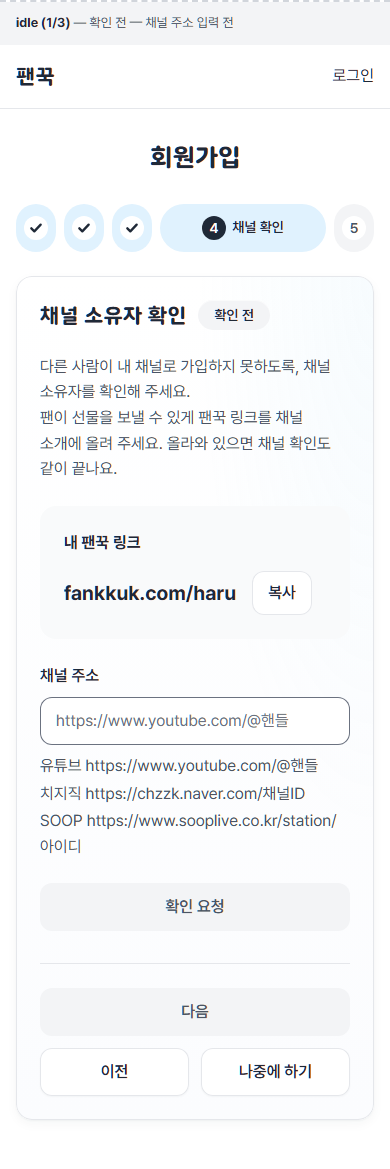
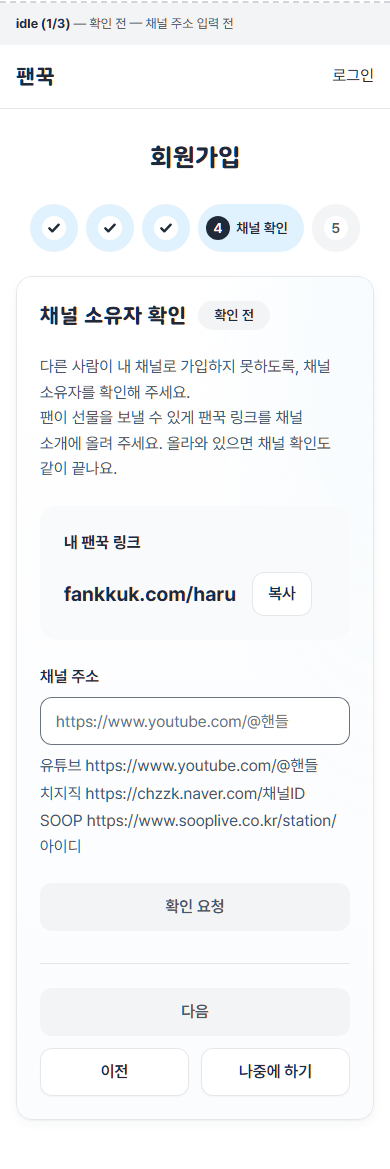
docs(fankkuk): 채널 확인 시안 37절 폭(480)으로 · 칸 설명은 소제목 아래 · 크리에이터 이름은 닉네임 하나로(결정)

diff --git a/projects/fankkuk/docs/design/mockups/channel-link-verify-20261102/index.html b/projects/fankkuk/docs/design/mockups/channel-link-verify-20261102/index.html
@@ -5,9 +5,15 @@
 <link rel="stylesheet" href="styles.css"></head><body>
 <!-- 근거: docs/ux/pages/signup.md · handle.md 「2026-11-02 채널 확인 개정안」. 쪽지 코드 칸 없음. 새 토큰·부품 없음(styles.css 는 v43 가입 시안 CSS 를 그대로 복사). 운영자 화면은 admin.html -->
 <header class="v-head"><h1 class="t-title">채널 확인 — 선물 링크 게시 확인</h1><ol><li><a href="#signup-2">가입 2단계</a></li><li><a href="#link-needed">link_needed</a></li><li><a href="#idle-empty">idle (1/3)</a></li><li><a href="#idle-youtube">idle (2/3)</a></li><li><a href="#idle-chzzk">idle (3/3)</a></li><li><a href="#waiting">waiting</a></li><li><a href="#rejected">rejected</a></li><li><a href="#verified">verified (가입 4단계)</a></li><li><a href="#locked">locked</a></li><li><a href="#acct-verified">verified (계정 설정)</a></li><li><a href="#acct-recheck">recheck_missing</a></li><li><a href="#profile-verifying">verifying (선물 링크 페이지 fankkuk.com/haru)</a></li><li><a href="admin.html">운영자 화면(admin.html)</a></li></ol></header>
-<section class="v-state" id="signup-2"><span class="v-label"><b>가입 2단계 (크리에이터)</b> — 바뀌는 칸만: 아이디 안내 한 줄 더, 채널 이름 안내 바꿈, 팬꾹 링크 칸 새로</span><div class="v-bar"><b>팬꾹</b><span>로그인</span></div><main><section class="su-page"><div class="container auth su-box"><div class="head"><h1 class="t-title">회원가입</h1></div><nav class="su-steps-wrap" aria-label="가입 단계"><ol class="su-steps su-four"><li><span class="su-st is-done"><span class="su-dot" aria-hidden="true"><svg width="16" height="16" viewBox="0 0 24 24" aria-hidden="true"><path d="m5 12.5 4.5 4.5L19 7" fill="none" stroke="currentColor" stroke-width="3.5" stroke-linecap="round" stroke-linejoin="round"/></svg></span><span class="su-lbl">유형 선택</span></span></li><li><span class="su-st" aria-current="step"><span class="su-dot" aria-hidden="true">2</span><span class="su-lbl">정보 입력</span></span></li><li><span class="su-st"><span class="su-dot" aria-hidden="true">3</span><span class="su-lbl">휴대폰 확인</span></span></li><li><span class="su-st"><span class="su-dot" aria-hidden="true">4</span><span class="su-lbl">채널 확인</span></span></li><li><span class="su-st"><span class="su-dot" aria-hidden="true">5</span><span class="su-lbl">승인 서명</span></span></li></ol></nav><form class="card" onsubmit="return false"><fieldset class="su-step"><legend class="sr-only">정보 입력</legend>
-<h3 class="t-card" style="margin-bottom:16px">계정</h3><div class="form"><div><label class="label" for="s2-id">아이디</label><input class="field" id="s2-id" value="haru_game"><p class="hint">영문 소문자·숫자·밑줄(_) 4~20자 · 가입 후 변경 불가<br>로그인할 때만 쓰고, 다른 사람에게는 보이지 않습니다.</p></div><p class="hint" style="margin:0">닉네임 · 이메일 · 비밀번호 칸은 지금 그대로</p></div>
-<h3 class="t-card" style="margin:32px 0 16px">채널 정보</h3><div class="form"><div><label class="label" for="s2-name">공개 이름</label><input class="field" id="s2-name" value="하루"><p class="hint">팬에게 표시되는 이름 · 최대 20자</p></div><div><label class="label" for="s2-ch">채널 이름</label><input class="field" id="s2-ch" placeholder="예: 꿀단지TV" value="하루의 놀이터"><p class="hint">방송 플랫폼에 보이는 채널 이름과 똑같이 적어 주세요. 채널 확인 때 같은지 봅니다.</p></div><div><label class="label" for="s2-link">팬꾹 링크</label><div class="vp-handle"><span class="pre">fankkuk.com/</span><input class="field" id="s2-link" placeholder="haru" value="haru"></div><p class="hint">채널 소개에 올릴 주소입니다 · 아이디와 다르게 정해 주세요<br>가입 후 30일 동안 바꿀 수 없습니다.</p></div><p class="hint" style="margin:0">팬덤 이름 · 태그 칸은 지금 그대로</p></div>
+<section class="v-state" id="signup-2"><span class="v-label"><b>가입 2단계 (크리에이터)</b> — 바뀌는 칸만: 칸 설명은 소제목 바로 아래(입력 칸 위), 꼴 규칙은 입력 칸 아래 · 공개 이름 칸 없음(닉네임으로 합침 — 다음 작업) · 팬꾹 링크 칸 새로</span><div class="v-bar"><b>팬꾹</b><span>로그인</span></div><main><section class="su-page"><div class="container auth su-box"><div class="head"><h1 class="t-title">회원가입</h1></div><nav class="su-steps-wrap" aria-label="가입 단계"><ol class="su-steps su-four"><li><span class="su-st is-done"><span class="su-dot" aria-hidden="true"><svg width="16" height="16" viewBox="0 0 24 24" aria-hidden="true"><path d="m5 12.5 4.5 4.5L19 7" fill="none" stroke="currentColor" stroke-width="3.5" stroke-linecap="round" stroke-linejoin="round"/></svg></span><span class="su-lbl">유형 선택</span></span></li><li><span class="su-st" aria-current="step"><span class="su-dot" aria-hidden="true">2</span><span class="su-lbl">정보 입력</span></span></li><li><span class="su-st"><span class="su-dot" aria-hidden="true">3</span><span class="su-lbl">휴대폰 확인</span></span></li><li><span class="su-st"><span class="su-dot" aria-hidden="true">4</span><span class="su-lbl">채널 확인</span></span></li><li><span class="su-st"><span class="su-dot" aria-hidden="true">5</span><span class="su-lbl">승인 서명</span></span></li></ol></nav><form class="card" onsubmit="return false"><fieldset class="su-step"><legend class="sr-only">정보 입력</legend>
+<h3 class="t-card" style="margin-bottom:16px">계정</h3><div class="form">
+<div><label class="label" for="s2-id">아이디</label><p class="v-desc">로그인할 때만 쓰고, 다른 사람에게는 보이지 않습니다.</p><input class="field" id="s2-id" value="haru_game"><p class="hint">영문 소문자·숫자·밑줄(_) 4~20자 · 가입 후 변경 불가</p></div>
+<div><label class="label" for="s2-nick">닉네임</label><p class="v-desc">팬꾹에서 다른 사람에게 보이는 이름입니다.</p><input class="field" id="s2-nick" value="하루"><p class="hint">다른 사람과 겹칠 수 없습니다 · 최대 20자</p></div>
+<p class="hint" style="margin:0">이메일 · 비밀번호 칸은 지금 그대로</p></div>
+<h3 class="t-card" style="margin:32px 0 16px">채널 정보</h3><div class="form">
+<div><label class="label" for="s2-ch">채널 이름</label><p class="v-desc">방송 플랫폼에 보이는 채널 이름과 똑같이 적어 주세요. 채널 확인 때 같은지 봅니다.</p><input class="field" id="s2-ch" placeholder="예: 꿀단지TV" value="하루의 놀이터"></div>
+<div><label class="label" for="s2-link">팬꾹 링크</label><p class="v-desc">채널 소개에 올릴 주소입니다. 아이디와 다르게 정해 주세요.</p><div class="vp-handle"><span class="pre">fankkuk.com/</span><input class="field" id="s2-link" placeholder="haru" value="haru"></div><p class="hint">가입 후 30일 동안 바꿀 수 없습니다.</p></div>
+<p class="hint" style="margin:0">팬덤 이름 · 태그 칸은 지금 그대로</p></div>
 </fieldset><div class="su-step-actions"><button class="btn btn--line" type="button">이전</button><button class="btn su-next" type="submit">다음</button></div></form></div></section></main></section>
 <section class="v-state" id="link-needed"><span class="v-label"><b>link_needed</b> — 링크용 아이디가 없음 — 이 자리에서 팬꾹 링크를 만든다(누르면 「정하면 30일 동안 바꿀 수 없어요」 확인 창 — 설정 화면과 같음)</span><div class="v-bar"><b>팬꾹</b><span>로그인</span></div><main><section class="su-page"><div class="container auth su-box"><div class="head"><h1 class="t-title">회원가입</h1></div><nav class="su-steps-wrap" aria-label="가입 단계"><ol class="su-steps su-four"><li><span class="su-st is-done"><span class="su-dot" aria-hidden="true"><svg width="16" height="16" viewBox="0 0 24 24" aria-hidden="true"><path d="m5 12.5 4.5 4.5L19 7" fill="none" stroke="currentColor" stroke-width="3.5" stroke-linecap="round" stroke-linejoin="round"/></svg></span><span class="su-lbl">유형 선택</span></span></li><li><span class="su-st is-done"><span class="su-dot" aria-hidden="true"><svg width="16" height="16" viewBox="0 0 24 24" aria-hidden="true"><path d="m5 12.5 4.5 4.5L19 7" fill="none" stroke="currentColor" stroke-width="3.5" stroke-linecap="round" stroke-linejoin="round"/></svg></span><span class="su-lbl">정보 입력</span></span></li><li><span class="su-st is-done"><span class="su-dot" aria-hidden="true"><svg width="16" height="16" viewBox="0 0 24 24" aria-hidden="true"><path d="m5 12.5 4.5 4.5L19 7" fill="none" stroke="currentColor" stroke-width="3.5" stroke-linecap="round" stroke-linejoin="round"/></svg></span><span class="su-lbl">휴대폰 확인</span></span></li><li><span class="su-st" aria-current="step"><span class="su-dot" aria-hidden="true">4</span><span class="su-lbl">채널 확인</span></span></li><li><span class="su-st"><span class="su-dot" aria-hidden="true">5</span><span class="su-lbl">승인 서명</span></span></li></ol></nav><form class="card" onsubmit="return false"><fieldset class="su-step"><legend class="sr-only">채널 소유자 확인</legend><div class="vp-head"><h2 class="t-card">채널 소유자 확인</h2><span class="tag">확인 전</span></div><p class="sub su-lead">다른 사람이 내 채널로 가입하지 못하도록, 채널 소유자를 확인해 주세요.<br>팬이 선물을 보낼 수 있게 팬꾹 링크를 채널 소개에 올려 주세요. 올라와 있으면 채널 확인도 같이 끝나요.</p><div class="vp-box"><label class="vp-label" for="h0">내 팬꾹 링크</label><div class="vp-handle"><span class="pre">fankkuk.com/</span><input class="field" id="h0" placeholder="haru"><button class="btn btn--sm" type="button">만들기</button></div></div></fieldset><div class="v-kakao-actions v-three"><button class="btn btn--line" type="button">이전</button><button class="btn btn--line" type="button">나중에 하기</button><button class="btn su-next v-main" type="submit" aria-disabled="true">다음</button></div></form></div></section></main></section>
 <section class="v-state" id="idle-empty"><span class="v-label"><b>idle (1/3)</b> — 확인 전 — 채널 주소 입력 전</span><div class="v-bar"><b>팬꾹</b><span>로그인</span></div><main><section class="su-page"><div class="container auth su-box"><div class="head"><h1 class="t-title">회원가입</h1></div><nav class="su-steps-wrap" aria-label="가입 단계"><ol class="su-steps su-four"><li><span class="su-st is-done"><span class="su-dot" aria-hidden="true"><svg width="16" height="16" viewBox="0 0 24 24" aria-hidden="true"><path d="m5 12.5 4.5 4.5L19 7" fill="none" stroke="currentColor" stroke-width="3.5" stroke-linecap="round" stroke-linejoin="round"/></svg></span><span class="su-lbl">유형 선택</span></span></li><li><span class="su-st is-done"><span class="su-dot" aria-hidden="true"><svg width="16" height="16" viewBox="0 0 24 24" aria-hidden="true"><path d="m5 12.5 4.5 4.5L19 7" fill="none" stroke="currentColor" stroke-width="3.5" stroke-linecap="round" stroke-linejoin="round"/></svg></span><span class="su-lbl">정보 입력</span></span></li><li><span class="su-st is-done"><span class="su-dot" aria-hidden="true"><svg width="16" height="16" viewBox="0 0 24 24" aria-hidden="true"><path d="m5 12.5 4.5 4.5L19 7" fill="none" stroke="currentColor" stroke-width="3.5" stroke-linecap="round" stroke-linejoin="round"/></svg></span><span class="su-lbl">휴대폰 확인</span></span></li><li><span class="su-st" aria-current="step"><span class="su-dot" aria-hidden="true">4</span><span class="su-lbl">채널 확인</span></span></li><li><span class="su-st"><span class="su-dot" aria-hidden="true">5</span><span class="su-lbl">승인 서명</span></span></li></ol></nav><form class="card" onsubmit="return false"><fieldset class="su-step"><legend class="sr-only">채널 소유자 확인</legend><div class="vp-head"><h2 class="t-card">채널 소유자 확인</h2><span class="tag">확인 전</span></div><p class="sub su-lead">다른 사람이 내 채널로 가입하지 못하도록, 채널 소유자를 확인해 주세요.<br>팬이 선물을 보낼 수 있게 팬꾹 링크를 채널 소개에 올려 주세요. 올라와 있으면 채널 확인도 같이 끝나요.</p><div class="vp-box"><p class="vp-label">내 팬꾹 링크</p><div class="vp-code-row"><span class="vp-link">fankkuk.com/haru</span><button class="btn btn--line btn--sm" type="button">복사</button></div></div><div style="margin-top:24px"><div><label class="label" for="a1">채널 주소</label><input class="field" id="a1" inputmode="url" placeholder="https://www.youtube.com/@핸들" value=""><ul class="vp-examples"><li>유튜브 <code>https://www.youtube.com/@핸들</code></li><li>치지직 <code>https://chzzk.naver.com/채널ID</code></li><li>SOOP <code>https://www.sooplive.co.kr/station/아이디</code></li></ul></div></div><div class="vp-steps"><button class="btn" type="button" aria-disabled="true">확인 요청</button></div></fieldset><div class="v-kakao-actions v-three"><button class="btn btn--line" type="button">이전</button><button class="btn btn--line" type="button">나중에 하기</button><button class="btn su-next v-main" type="submit" aria-disabled="true">다음</button></div></form></div></section></main></section>

diff --git a/projects/fankkuk/docs/design/mockups/channel-link-verify-20261102/styles.css b/projects/fankkuk/docs/design/mockups/channel-link-verify-20261102/styles.css
@@ -1462,3 +1462,20 @@ body{background:#fff}
 .pf-intro{margin-top:12px;font-size:var(--fs-card);font-weight:600;line-height:1.5}
 .pf-wait{display:inline-flex;align-items:center;min-height:48px;margin-top:24px;padding:0 20px;border-radius:var(--r-btn);background:var(--gray-100);color:var(--gray-600);font-weight:600}
 @media(max-width:767px){.pf{padding:16px var(--gutter)}.pf-cover{height:160px;border-radius:16px}.pf-body{padding:0;min-height:0}.pf-face{position:relative;left:8px;top:-44px;width:96px;height:96px;margin-bottom:-28px}.pf-face img{width:72px;height:72px}.pf-name{padding-top:0}.pf-name h1{font-size:24px}.pf-intro{font-size:16px}.pf-wait{display:flex;width:100%;padding:12px 16px}}
+
+.v-desc{margin:-4px 0 8px;font-size:14px;line-height:1.5;color:var(--gray-600)}
+
+/* 2026-11-02 — 37절(가입 카드 480)에 맞춤. 처음 시안이 37절 이전 v43 값(640)을 복사해 칸·버튼이 길었다(사용자 「input 박스가 쓸대 없이 길다」) */
+.auth.su-box { max-width: calc(480px + 2 * 24px); }
+.auth .card { padding: 32px; }
+@media (max-width: 767px) { .auth .card { padding: 24px; } }
+.su-box .field { height: 48px; }
+/* 크리에이터 다섯 단계 — PC 도 지금 단계만 이름(37절) */
+.su-steps.su-four .su-st:not([aria-current]) .su-lbl { display: none; }
+.su-steps.su-four .su-st:not([aria-current]) { width: 48px; padding: 0; justify-content: center; }
+/* 4단계 버튼 — 5단계와 같이 「다음」 위 꽉 차게, 아래 「이전 | 나중에 하기」 반씩(PC·휴대폰 같음, 37절) */
+.v-kakao-actions.v-three { grid-template-columns: 1fr 1fr !important; }
+.v-kakao-actions.v-three .v-main { order: -1; grid-column: 1 / -1; justify-self: stretch !important; }
+.su-steps.su-four { display: flex !important; justify-content: center; gap: 8px; }
+.su-steps.su-four > li { flex: 0 0 auto; width: auto !important; }
+.su-steps.su-four .su-st[aria-current] { width: auto; padding: 0 16px 0 8px; }

diff --git a/projects/fankkuk/docs/DECISIONS.md b/projects/fankkuk/docs/DECISIONS.md
@@ -1385,3 +1385,10 @@ Vite SPA 기각 — 서버 일을 Supabase 함수로 떼어 원본 흐름을 다
 - 사실과 다른 전제 하나: 지시의 「치지직 API 자동 확인(기존 구현 유지)」 — 규칙과 DB 처리는 있지만 실제 치지직 연결은 없고 가짜 창구만 있다. 개정안에 남은 일로 적었다.
 - 정할 것(카드): 확인 대기 중 선물 링크 페이지 · 재확인 실패 유예 · 링크용 아이디를 바꿨을 때 · 쪽지 코드를 언제 켤지.
 - 같은 날 고침(사용자 「그냥 플랫폼 주소를 입력 받으면, 내가 거기 들어가서 닉네임 확인하고 팬꾹이랑 닉네임이 같고, 팬꾹 링크가 걸려있으면 확인 처리하는거아녔어?」 → 「그래 그렇게해줘」): 쪽지 코드 보조 수단을 뺀다. 승인 조건에 이름 확인을 넣는다 — 비교 대상은 팬꾹 닉네임이 아니라 가입 때 적는 「채널 이름」(닉네임은 팬꾹 안 이름이라 방송 이름과 다를 수 있다).
+
+## 2026-11-02 — 크리에이터 이름은 닉네임 하나로, 칸 설명은 소제목 바로 아래 (채널 확인 시안 검토 중 사용자 지시)
+
+- 가입 2단계에 팬꾹 링크 칸을 둔다(로그인 아이디를 링크로 쓰지 않는다 — 사용자 「추천대로하자. 2단계에서 로그인용 아이디와 채널명을 따로 만들기」). 아이디 공개 위험을 따져 봄: 업계는 아이디를 비밀로 보지 않지만, 팬꾹은 아이디마다 5번 틀리면 15분 막아(session-login INV-L14) 공개하면 유명 크리에이터를 일부러 잠그는 괴롭힘이 된다. 얻는 것은 입력 칸 하나라 따로 둔다.
+- 「공개 이름」과 「닉네임」을 합친다 — 사용자 「닉네임이랑 공개이름이랑 그냥 같다고 보면 될거 같은데 왜 나눠?」 → 「응 합치고, 닉네임, 채널이름이라고 해」. 따로 둔 근거는 없었다(크리에이터 페이지를 먼저 만들고 계정 닉네임이 나중에 들어와 둘이 남음). 이름은 「닉네임」·「채널 이름」 둘. 채널 확인 작업 다음 작업으로 한다(데이터 옮기기·길이 12→크리에이터 20·이름 바꾸기 기록 합치기·읽는 화면 바꾸기).
+- 칸 설명(무엇에 쓰는 칸인지)은 입력 칸 아래가 아니라 **소제목(라벨) 바로 아래, 입력 칸 위**에 둔다. 꼴 규칙·실시간 안내는 지금처럼 입력 칸 아래 — 사용자 「input 박스 아래에 있는데 그러지 말고, 아이디라는 소제목 아래로 옮겨. 지금 위치는 부적절하잖아. 닉네임이랑 채널이름도 마찬가지로」.
+- 시안 정정: 채널 확인 시안이 37절(가입 카드 480) 이전의 옛 가입 시안 값(640)을 복사해 칸·버튼이 길었다(사용자 「input 박스가 쓸대 없이 길다」) — 480·칸 48·다섯 단계 표시·4단계 버튼 줄을 37절 값으로 맞춤.
